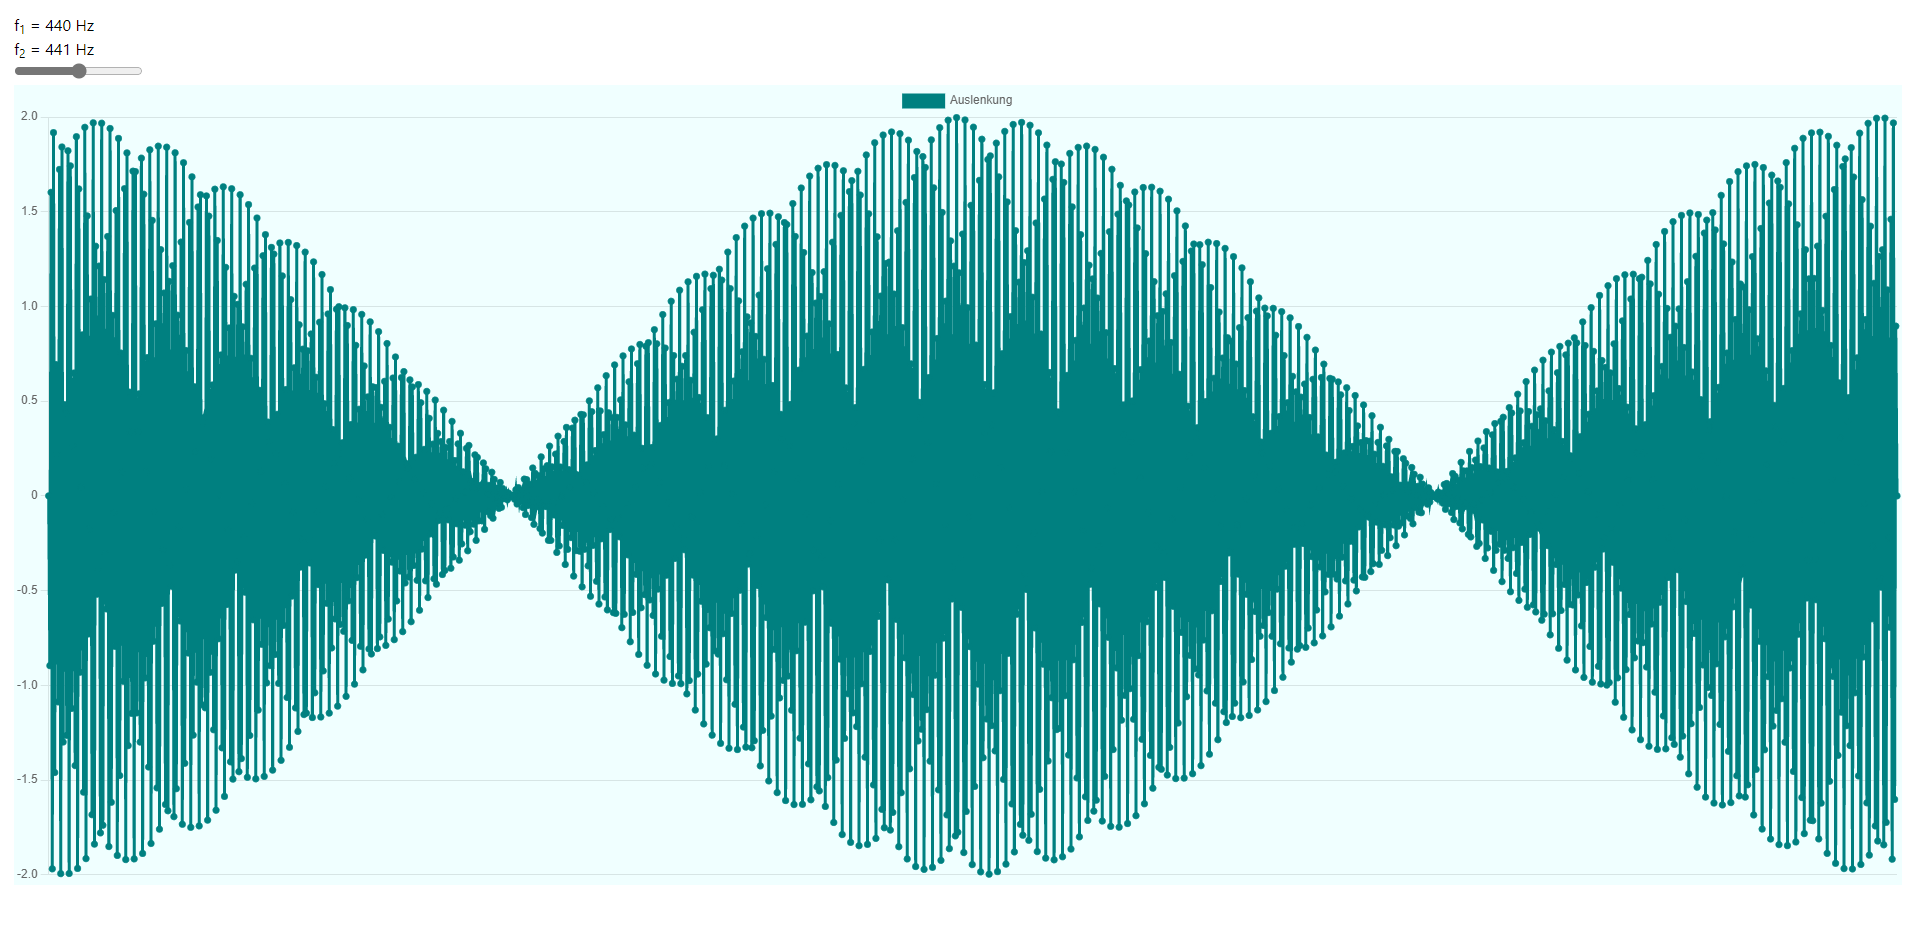
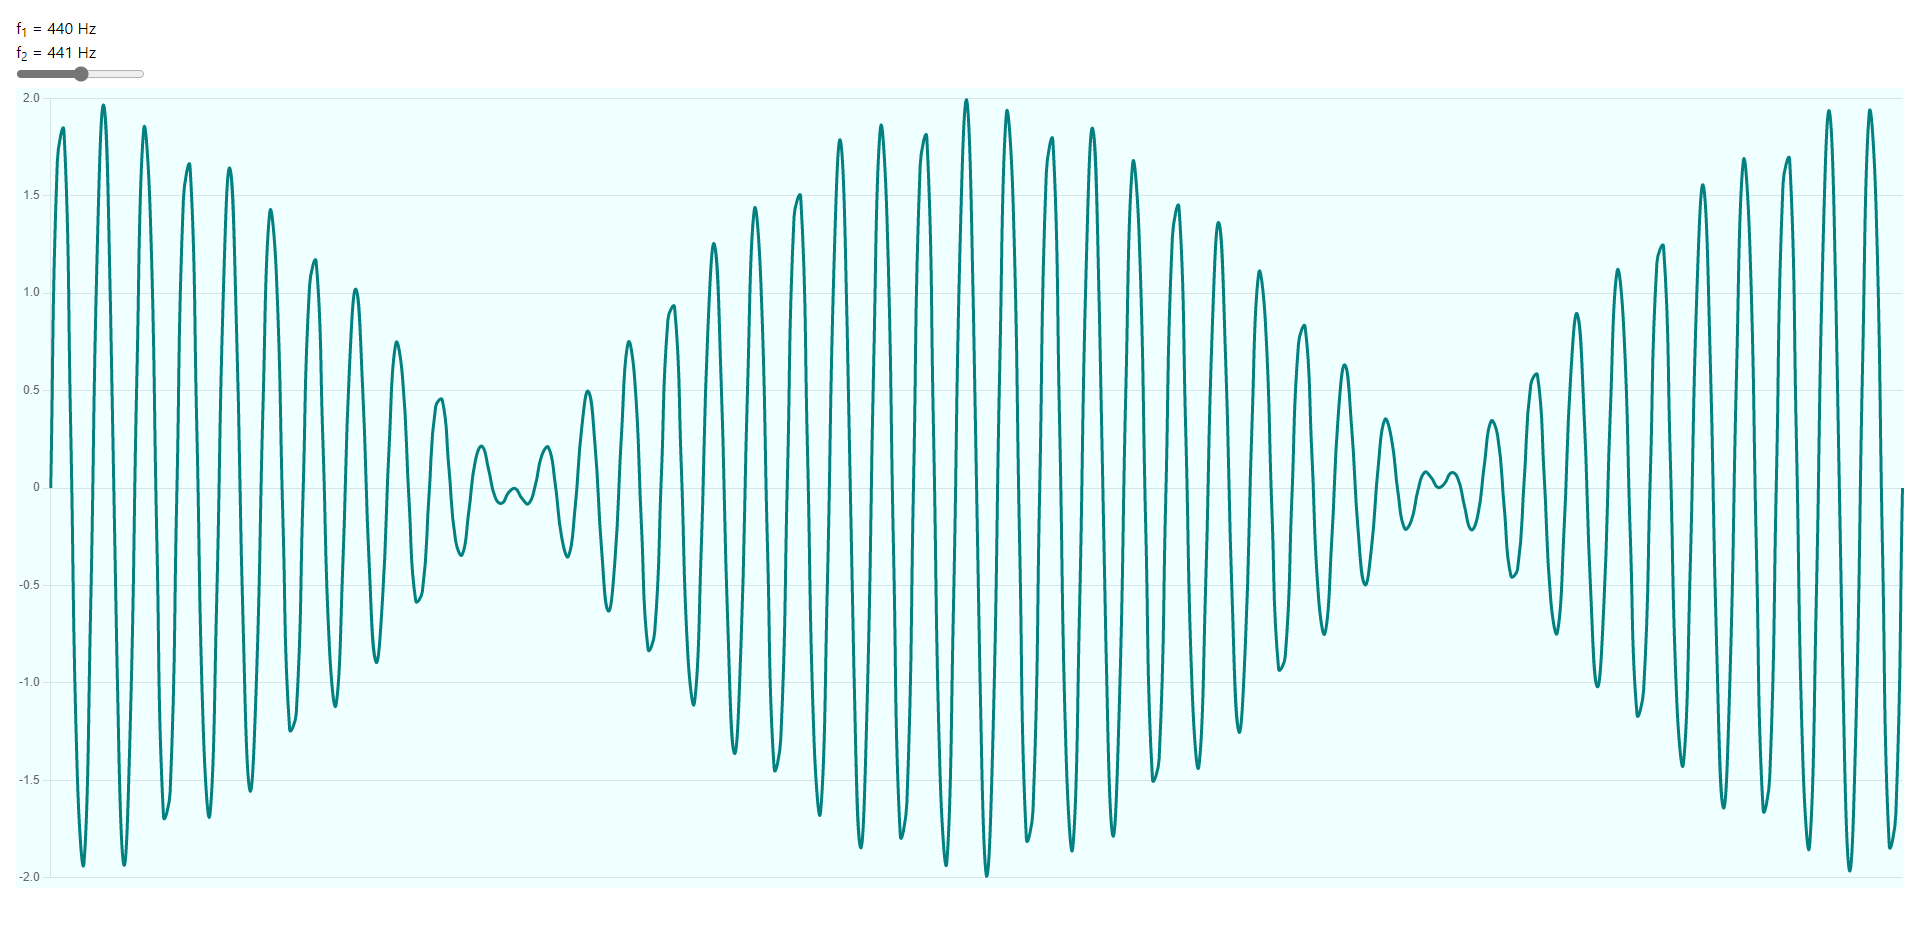
Visual and performative overhaul

diff --git a/wave/plot.js b/wave/plot.js
@@ -5,12 +5,23 @@ const chart = new Chart("chart", {
             label: "Auslenkung",
             borderColor: "teal",
             backgroundColor: "teal",
+            tension: 0.5
         }
         ]
     },
     options: {
         scales: {
             x: {
+                display: false
+            }
+        },
+        elements: {
+            point: {
+                radius: 0
+            }
+        },
+        plugins: {
+            legend: {
                 display: false
             }
         }

diff --git a/wave/script.py b/wave/script.py
@@ -33,7 +33,7 @@ freq2 = document.querySelector("#freq")
 freq2.addEventListener("input", create_proxy(inp_update))
 document.body.addEventListener("wheel", create_proxy(scroll_update))
 
-sampling_frequency = 1920 / 10 * 4
+sampling_frequency = 140
 seconds = 2
 time = np.linspace(0, seconds, int(seconds * sampling_frequency))
 
